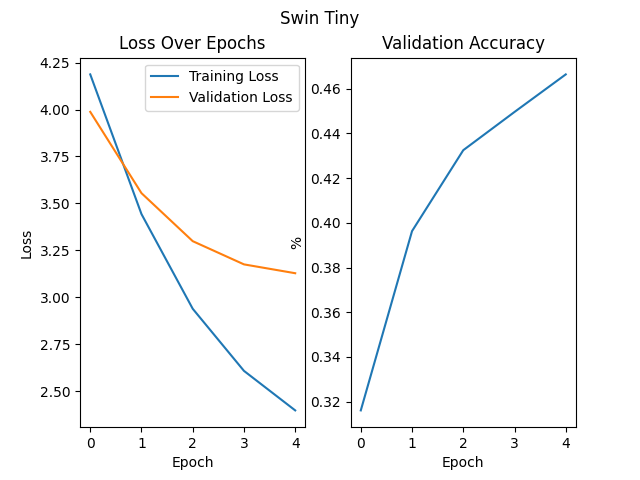
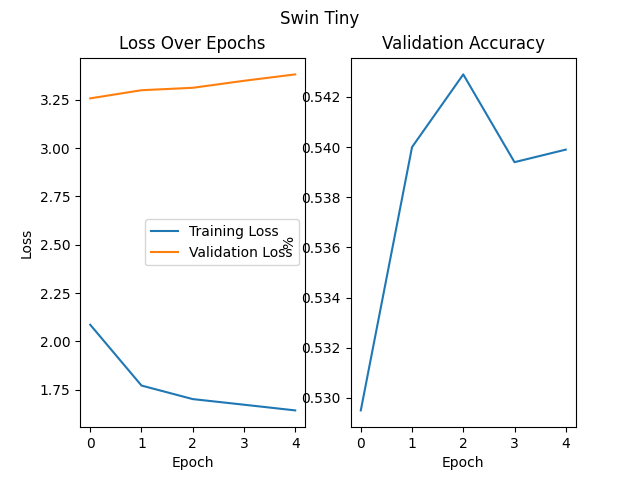
reran tiny

diff --git a/HM6/small.py b/HM6/small.py
@@ -9,6 +9,6 @@ train_model(
     model_name='swin_small',
     chart_title='Swin Small',
     epochs=5,
-    lr=2e-5,
+    lr=1e-3,
     device=device,
 )

diff --git a/HM6/tiny.py b/HM6/tiny.py
@@ -9,6 +9,6 @@ train_model(
     model_name='swin_tiny',
     chart_title='Swin Tiny',
     epochs=5,
-    lr=2e-5,
+    lr=1e-3,
     device=device,
 )
